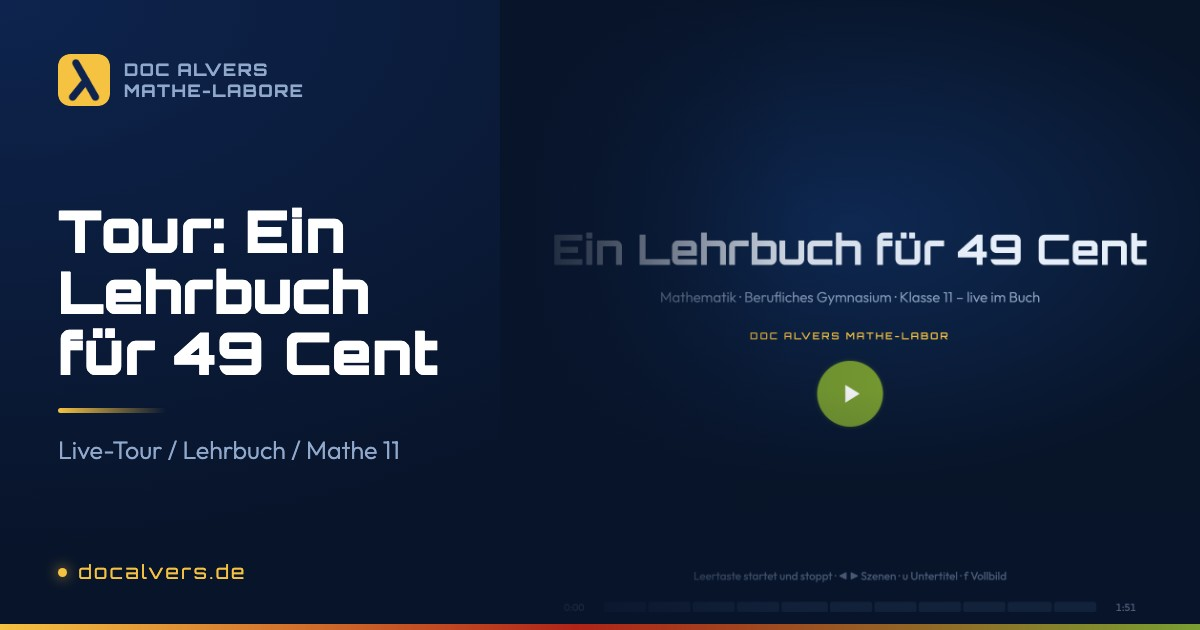
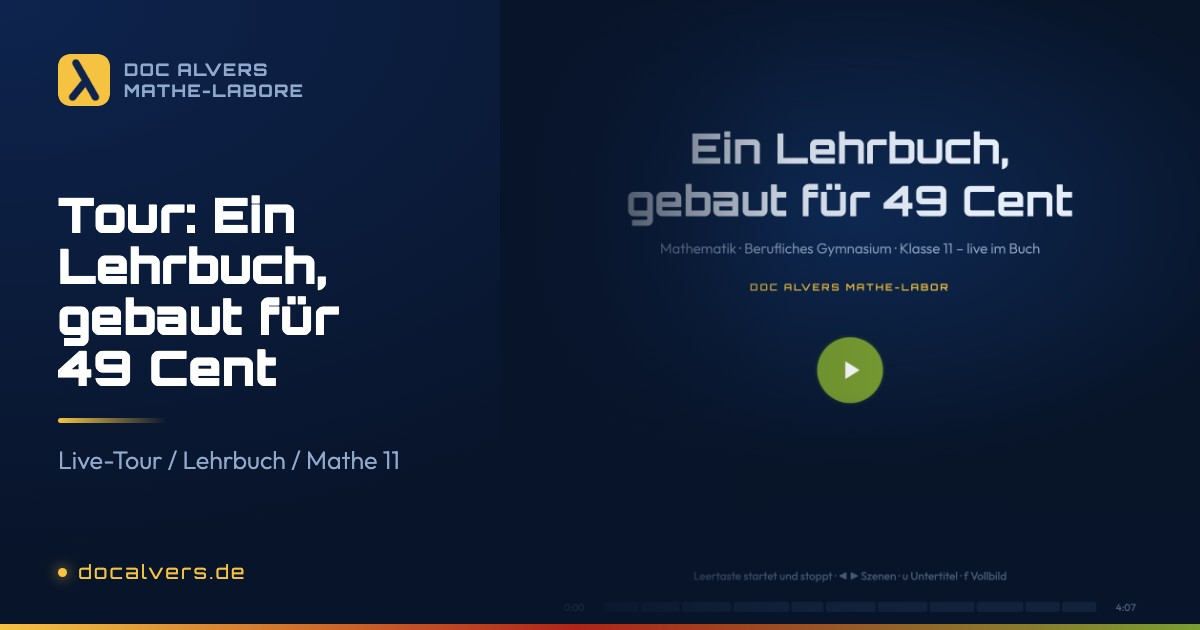
Making-of: the 0,49 € reads as what the book cost to build, not its price - "gebaut für" in all five languages and the tour
A reader took "Ein ganzes Lehrbuch für 0,49 €" for the sale price (the print book costs more). Now:
- the Making-of card on the book pages and in the hub: "Ein ganzes Lehrbuch, gebaut für 0,49 €" / "A whole textbook, built for €0.49" / "Un manuel entier, réalisé pour 0,49 €" / "Un libro de texto entero, creado con 0,49 €" / "Un intero libro di testo, realizzato con 0,49 €", the link's aria-label alike
- the tour "Ein Lehrbuch, gebaut für 49 Cent": its page, scene title, labs-config, search terms and the hub titles in all nine languages; her spoken line stays ("Entstanden in knapp anderthalb Stunden, für neunundvierzig Cent" already says it), link preview card shot anew
- the tour's title card in two lines (card.title may carry \n, cyber-tour.css pre-line; such a card lifts its block 9vh so the signature stays clear of the play button - checked 1600x900 to 390x844; all other tours unchanged)
- cards checked head-less in all five languages at 1280, 768 and 390 px: the price wraps whole, no sideways scroll

(Doc, 08.11.2026: "eine Kritik ..., dass die 0,49 € bei unserem Buch misleading sein könnten" - "Mach das bitte")

diff --git a/HTML/js/i18n-index-fr.js b/HTML/js/i18n-index-fr.js
@@ -169,7 +169,7 @@
                 "tour-vorrechnen": { title: "Visite : La classe dit où ça coince", description: "Visite guidée en direct de Vorrechnen (résoudre au tableau) : à gauche le tableau tel que la classe le voit, à droite Mission Control avec tout le reste, et un téléphone avec le buzzer. Du code QR au tableau à « pas compris » d'un simple toucher, au nombre derrière la ligne, à « trop vite » et aux commentaires, jusqu'à l'écriture manuscrite qui devient formule, Solita qui répond au tableau et la révision. On joue avec une classe de démonstration dans le navigateur, sans données réelles. 13 scènes, environ 6 minutes. Commentaire en allemand." },
                 "tour-maya": { title: "Visite : Point, barre, coquillage", description: "Visite guidée en direct de l'abaque maya, commentée par Doc Alvers (clone vocal par IA) avec curseur et sous-titres : les vingt chiffres faits de points, de barres et d'un coquillage, poser des chiffres, la retenue de 59 à 60, taper un nombre, des exercices aux dés, le compte du calendrier face à la base 20 pure et l'écriture verticale — pendant que le vrai labo tourne dans le navigateur. 12 scènes, environ 3 minutes ; pause et essais possibles à tout moment. Commentaire en allemand." },
                 "tour-trigonometrie": { title: "Visite : Du triangle à l'onde", description: "Visite guidée en direct du labo de trigonométrie : Solita guide avec la voix, le curseur et des sous-titres à travers les onze chapitres — du triangle rectangle au cercle trigonométrique et au radian, de la sinusoïde qui se déroule depuis le cercle aux équations, aux paramètres avec une énigme et à la durée du jour à Dresde, jusqu'à la tangente, la loi des sinus et la dérivée — pendant que le vrai labo tourne dans le navigateur. 12 scènes, environ 4 minutes et demie ; pause et essais possibles à tout moment. Commentaire en allemand." },
-                "tour-mathe11-lehrbuch": { title: "Visite : Un manuel pour 49 centimes", description: "Visite guidée en direct du manuel de mathématiques de 11e année du Gymnasium professionnel : Solita parcourt le vrai livre avec la voix, le curseur et des sous-titres — du sommaire, un chapitre, l’atelier des paraboles, l’indice et la solution, un auto-test et le plan incliné de Galilée jusqu’au labo des paraboles, aux cinq langues et à l’édition imprimée. Réalisé en moins d’une heure et demie, pour 49 centimes. 11 scènes, environ 4 min 30, pause et essai à tout moment. Commentaire en allemand." },
+                "tour-mathe11-lehrbuch": { title: "Visite : Un manuel réalisé pour 49 centimes", description: "Visite guidée en direct du manuel de mathématiques de 11e année du Gymnasium professionnel : Solita parcourt le vrai livre avec la voix, le curseur et des sous-titres — du sommaire, un chapitre, l’atelier des paraboles, l’indice et la solution, un auto-test et le plan incliné de Galilée jusqu’au labo des paraboles, aux cinq langues et à l’édition imprimée. Réalisé en moins d’une heure et demie, pour 49 centimes. 11 scènes, environ 4 min 30, pause et essai à tout moment. Commentaire en allemand." },
                 "costablanca": { title: "Les incontournables de la Costa Blanca", description: "Des excursions sur la Costa Blanca à cocher : 22 destinations documentées d’Altea à Valence, avec photos, conseils d’initiés et barre de progression — en quatre langues (DE/EN/ES/IT)." },
                 "bb84": { title: "BB84", description: "Échange quantique de clés selon Bennett et Brassard : Alice envoie des photons uniques, chacun dans l’une de deux bases — + avec les états — et |, ou × avec / et \\. Bob choisit sa base au hasard : même base signifie résultat sûr, base différente signifie pur hasard. Survoler une colonne explique précisément ce photon. Avec l’espionne Eve, le taux d’erreur dans la partie comparée publiquement monte à un quart — la probabilité de détection vaut 1 − (3/4)^m, et mille tirages d’un clic montrent qu’il en est bien ainsi. Avec en plus un mode pédagogique qui parcourt tous les cas une fois." },
                 "jacquard": { title: "Jacquard", description: "Un métier à tisser de 1805, en 3D — la première machine qui fabrique une image d'après un plan écrit. Une carte perforée commande chaque fil de chaîne séparément : là où il y a un trou, l'aiguille passe, le crochet reste en place et le couteau lève le fil ; là où il y a du carton, le fil reste en bas et la trame bleue le recouvre. Carte après carte, l'image sort de la machine. Le motif et la machine sont deux choses différentes : le même cercle devient plus rond avec plus de fils, et là où le dessin est plus fin que le tissu, le métier tisse un motif qui n'existe pas dans l'original." },

diff --git a/HTML/js/i18n-index-es.js b/HTML/js/i18n-index-es.js
@@ -169,7 +169,7 @@
                 "tour-vorrechnen": { title: "Recorrido: La clase dice dónde se atasca", description: "Recorrido en vivo por Vorrechnen (resolver en la pizarra): a la izquierda la pizarra tal como la ve la clase, a la derecha Mission Control con todo lo demás, y un móvil con el pulsador. Desde el código QR en la pizarra, pasando por «no lo he entendido» con un toque, el número detrás de la línea, «demasiado rápido» y los comentarios, hasta la escritura a mano real que se convierte en fórmula, Solita respondiendo en la pizarra y el repaso. Se usa una clase de demostración en el navegador, sin datos reales. 13 escenas, unos 6 minutos. Hablado en alemán." },
                 "tour-maya": { title: "Recorrido: Punto, raya, concha", description: "Recorrido en vivo por el tablero de cálculo maya, narrado por Doc Alvers (clon de voz con IA) con cursor y subtítulos: las veinte cifras hechas de punto, raya y concha, colocar cifras, el acarreo de 59 a 60, teclear un número, tareas con dados, la cuenta del calendario frente a la base 20 pura y la escritura vertical, mientras el laboratorio real funciona en el navegador. 12 escenas, unos 3 minutos; se puede pausar y probar en cualquier momento. Hablado en alemán." },
                 "tour-trigonometrie": { title: "Recorrido: Del triángulo a la onda", description: "Recorrido en vivo por el laboratorio de trigonometría: Solita guía con voz, cursor y subtítulos por los once capítulos, desde el triángulo rectángulo, pasando por la circunferencia unidad y el radián, la curva del seno que se desenrolla del círculo, ecuaciones, parámetros con un acertijo y la duración del día en Dresde, hasta la tangente, el teorema del seno y la derivada, mientras el laboratorio real funciona en el navegador. 12 escenas, unos 4 minutos y medio; se puede pausar y probar en cualquier momento. Hablado en alemán." },
-                "tour-mathe11-lehrbuch": { title: "Recorrido: Un libro de texto por 49 céntimos", description: "Recorrido en vivo por el libro de texto de Matemáticas para el 11.º curso del Gymnasium profesional: Solita guía por el libro real con voz, cursor y subtítulos — del índice, un capítulo, el taller de parábolas, pista y solución, una autoevaluación y el plano inclinado de Galileo al laboratorio de parábolas, los cinco idiomas y la edición impresa. Hecho en menos de hora y media, por 49 céntimos. 11 escenas, unos 4½ minutos, se puede pausar y probar en cualquier momento. Hablado en alemán." },
+                "tour-mathe11-lehrbuch": { title: "Recorrido: Un libro de texto creado con 49 céntimos", description: "Recorrido en vivo por el libro de texto de Matemáticas para el 11.º curso del Gymnasium profesional: Solita guía por el libro real con voz, cursor y subtítulos — del índice, un capítulo, el taller de parábolas, pista y solución, una autoevaluación y el plano inclinado de Galileo al laboratorio de parábolas, los cinco idiomas y la edición impresa. Hecho en menos de hora y media, por 49 céntimos. 11 escenas, unos 4½ minutos, se puede pausar y probar en cualquier momento. Hablado en alemán." },
                 "costablanca": { title: "Lo mejor de la Costa Blanca", description: "Excursiones por la Costa Blanca para ir tachando: 22 destinos documentados de Altea a Valencia con fotos, consejos de quien vive allí y barra de progreso — en cuatro idiomas (DE/EN/ES/IT)." },
                 "bb84": { title: "BB84", description: "Intercambio cuántico de claves según Bennett y Brassard: Alice envía fotones individuales, cada uno en una de dos bases — + con los estados — y |, o × con / y \\. Bob elige su base al azar: la misma base da un resultado seguro, otra base da puro azar. Al pasar por encima de una columna se explica justo ese fotón. Con la espía Eve la tasa de error en la parte comparada públicamente sube a un cuarto — la probabilidad de detección es 1 − (3/4)^m, y mil rondas con un botón muestran que es realmente así. Además, un modo de enseñanza que recorre todos los casos una vez." },
                 "jacquard": { title: "Jacquard", description: "Un telar de 1805, en 3D — la primera máquina que fabrica una imagen a partir de un plan escrito. Una tarjeta perforada controla cada hilo de urdimbre por separado: donde hay un agujero, la aguja pasa, el gancho se queda y la cuchilla levanta el hilo; donde hay cartón, el hilo baja y la trama azul lo cubre. Tarjeta a tarjeta, la imagen sale de la máquina. Motivo y máquina son dos cosas distintas: el mismo círculo sale más redondo con más hilos, y donde el dibujo es más fino que el tejido, el telar teje un patrón que no existe en el original." },

diff --git a/HTML/js/i18n-index-sw.js b/HTML/js/i18n-index-sw.js
@@ -169,7 +169,7 @@
                 "tour-vorrechnen": { title: "Ziara: Darasa linasema linapokwama", description: "Ziara ya moja kwa moja ya Vorrechnen (kutatua ubaoni): kushoto ubao kama darasa linavyouona, kulia Mission Control pamoja na kila kitu, na simu yenye kitufe. Kuanzia msimbo wa QR ubaoni, kupitia “sijaelewa” kwa mguso mmoja, nambari nyuma ya mstari, “haraka mno” na maoni, hadi mwandiko halisi wa mkono unaogeuka fomula, Solita akijibu ubaoni na marudio. Hutumiwa darasa la maonyesho kwenye kivinjari, bila data halisi. Matukio 13, takriban dakika 6. Inazungumzwa kwa Kijerumani." },
                 "tour-maya": { title: "Ziara: Nukta, mstari, kombe", description: "Ziara ya moja kwa moja katika ubao wa kuhesabu wa Maya, inayosimuliwa na Doc Alvers (sauti iliyoigwa kwa AI) kwa kielekezi na manukuu: tarakimu ishirini za nukta, mstari na kombe, kupanga tarakimu, kubeba kutoka 59 hadi 60, kuandika namba, mazoezi ya kete, hesabu ya kalenda dhidi ya msingi wa 20 halisi na uandishi wa wima — huku maabara halisi ikifanya kazi kwenye kivinjari. Matukio 12, takriban dakika 3; simamisha wakati wowote ujaribu mwenyewe. Inazungumzwa kwa Kijerumani." },
                 "tour-trigonometrie": { title: "Ziara: Kutoka pembetatu hadi wimbi", description: "Ziara ya moja kwa moja katika maabara ya trigonometria: Solita anaongoza kwa sauti, kielekezi na manukuu kupitia sura zote kumi na moja — kuanzia pembetatu mraba, duara la kitengo na radiani, mkunjo wa sine unaojitokeza kutoka kwenye duara, milinganyo, vigezo pamoja na fumbo na urefu wa mchana huko Dresden hadi tanjenti, kanuni ya sine na kinyambuo — huku maabara halisi ikifanya kazi kwenye kivinjari. Matukio 12, takriban dakika 4 na nusu; simamisha wakati wowote ujaribu mwenyewe. Inazungumzwa kwa Kijerumani." },
-                "tour-mathe11-lehrbuch": { title: "Ziara: Kitabu cha kiada kwa senti 49", description: "Ziara ya moja kwa moja katika kitabu cha kiada cha hisabati kwa darasa la 11 la Gymnasium ya ufundi: Solita anaongoza katika kitabu halisi kwa sauti, kielekezi na manukuu — kuanzia yaliyomo, sura moja, karakana ya parabola, kidokezo na suluhisho, jaribio binafsi na mteremko wa Galileo hadi maabara ya parabola, lugha tano na toleo la kuchapishwa. Kimetengenezwa chini ya saa moja na nusu, kwa senti 49. Matukio 11, takriban dakika 4½, unaweza kusimamisha na kujaribu wakati wowote. Inazungumzwa kwa Kijerumani." },
+                "tour-mathe11-lehrbuch": { title: "Ziara: Kitabu cha kiada kilichotengenezwa kwa senti 49", description: "Ziara ya moja kwa moja katika kitabu cha kiada cha hisabati kwa darasa la 11 la Gymnasium ya ufundi: Solita anaongoza katika kitabu halisi kwa sauti, kielekezi na manukuu — kuanzia yaliyomo, sura moja, karakana ya parabola, kidokezo na suluhisho, jaribio binafsi na mteremko wa Galileo hadi maabara ya parabola, lugha tano na toleo la kuchapishwa. Kimetengenezwa chini ya saa moja na nusu, kwa senti 49. Matukio 11, takriban dakika 4½, unaweza kusimamisha na kujaribu wakati wowote. Inazungumzwa kwa Kijerumani." },
                 "costablanca": { title: "Vivutio vya Costa Blanca", description: "Safari za Costa Blanca za kuweka alama: maeneo 22 yaliyochunguzwa kutoka Altea hadi Valencia yakiwa na picha, vidokezo vya wenyeji na upau wa maendeleo — kwa lugha nne (DE/EN/ES/IT)." },
                 "bb84": { title: "BB84", description: "Ubadilishanaji wa funguo kwa kanuni ya kwanta ya Bennett na Brassard: Alice hutuma fotoni moja moja, kila moja katika mojawapo ya besi mbili — + yenye hali — na |, au × yenye / na \\. Bob huchagua besi yake kwa nasibu: besi ile ile humaanisha jibu la uhakika, besi tofauti humaanisha bahati tupu. Kupitisha kishale juu ya safu hueleza fotoni hiyo hasa. Akiwepo msikilizaji Eve, kiwango cha makosa katika sehemu inayolinganishwa hadharani hupanda hadi robo — uwezekano wa kugunduliwa ni 1 − (3/4)^m, na mizunguko elfu kwa kubonyeza kitufe huonyesha kuwa ni kweli hivyo. Pamoja na hali ya kufundishia inayopitia kila kisa mara moja." },
                 "jacquard": { title: "Jacquard", description: "Mtambo wa kufuma wa mwaka 1805, katika 3D — mashine ya kwanza inayotengeneza picha kwa kufuata mpango ulioandikwa. Kadi yenye matundu huongoza kila uzi wa tando peke yake: palipo na tundu sindano hupenya, kulabu hubaki na kisu huinua uzi; palipo na karatasi uzi hubaki chini na uzi wa buluu wa upande humfunika. Kadi baada ya kadi picha hukua kutoka kwenye mashine. Muundo na mashine ni vitu viwili tofauti: duara lile lile huwa duara zaidi likiwa na nyuzi nyingi, na pale mchoro ulipo laini kuliko nguo, mtambo hufuma muundo usiokuwepo kabisa kwenye asili." },

diff --git a/HTML/js/i18n-index-it.js b/HTML/js/i18n-index-it.js
@@ -169,7 +169,7 @@
                 "tour-vorrechnen": { title: "Tour: La classe dice dove si blocca", description: "Tour dal vivo di Vorrechnen (risolvere alla lavagna): a sinistra la lavagna come la vede la classe, a destra Mission Control con tutto il resto, e un telefono con il pulsante. Dal codice QR alla lavagna al «non ho capito» con un tocco, al numero dietro la riga, a «troppo veloce» e ai commenti, fino alla scrittura a mano vera che diventa formula, a Solita che risponde alla lavagna e al ripasso. Si usa una classe dimostrativa nel browser, senza dati reali. 13 scene, circa 6 minuti. Parlato in tedesco." },
                 "tour-maya": { title: "Tour: Punto, barra, conchiglia", description: "Tour dal vivo nell'abaco maya, narrato da Doc Alvers (clone vocale IA) con cursore e sottotitoli: le venti cifre fatte di punti, barre e conchiglia, posare le cifre, il riporto da 59 a 60, digitare un numero, esercizi con i dadi, il conteggio del calendario contro la base 20 pura e la scrittura verticale — mentre il vero laboratorio gira nel browser. 12 scene, circa 3 minuti; si può fermare e provare in ogni momento. Parlato in tedesco." },
                 "tour-trigonometrie": { title: "Tour: Dal triangolo all'onda", description: "Tour dal vivo nel laboratorio di trigonometria: Solita guida con voce, cursore e sottotitoli attraverso tutti gli undici capitoli — dal triangolo rettangolo alla circonferenza goniometrica e al radiante, dalla sinusoide che si srotola dal cerchio alle equazioni, ai parametri con un indovinello e alla durata del giorno a Dresda, fino alla tangente, al teorema dei seni e alla derivata — mentre il vero laboratorio gira nel browser. 12 scene, circa 4 minuti e mezzo; si può fermare e provare in ogni momento. Parlato in tedesco." },
-                "tour-mathe11-lehrbuch": { title: "Tour: Un libro di testo per 49 centesimi", description: "Tour dal vivo del libro di matematica per l’11ª classe del Gymnasium professionale: Solita guida nel libro vero con voce, cursore e sottotitoli — dall’indice, un capitolo, l’officina delle parabole, suggerimento e soluzione, un autotest e il piano inclinato di Galileo fino al laboratorio delle parabole, alle cinque lingue e all’edizione stampata. Realizzato in meno di un’ora e mezza, per 49 centesimi. 11 scene, circa 4 minuti e mezzo, pausa e prova in qualsiasi momento. Parlato in tedesco." },
+                "tour-mathe11-lehrbuch": { title: "Tour: Un libro di testo realizzato con 49 centesimi", description: "Tour dal vivo del libro di matematica per l’11ª classe del Gymnasium professionale: Solita guida nel libro vero con voce, cursore e sottotitoli — dall’indice, un capitolo, l’officina delle parabole, suggerimento e soluzione, un autotest e il piano inclinato di Galileo fino al laboratorio delle parabole, alle cinque lingue e all’edizione stampata. Realizzato in meno di un’ora e mezza, per 49 centesimi. 11 scene, circa 4 minuti e mezzo, pausa e prova in qualsiasi momento. Parlato in tedesco." },
                 "costablanca": { title: "Il meglio della Costa Blanca", description: "Gite sulla Costa Blanca da spuntare: 22 mete documentate da Altea a Valencia con foto, consigli di chi ci vive e barra di avanzamento — in quattro lingue (DE/EN/ES/IT)." },
                 "bb84": { title: "BB84", description: "Scambio quantistico di chiavi secondo Bennett e Brassard: Alice invia singoli fotoni, ciascuno in una di due basi — + con gli stati — e |, oppure × con / e \\. Bob sceglie la sua base a caso: stessa base significa risultato sicuro, base diversa significa puro caso. Passando sopra una colonna si spiega proprio quel fotone. Con la spia Eve il tasso di errore nella parte confrontata pubblicamente sale a un quarto — la probabilità di scoperta è 1 − (3/4)^m, e mille prove con un clic mostrano che è davvero così. In più una modalità didattica che percorre una volta tutti i casi." },
                 "jacquard": { title: "Jacquard", description: "Un telaio del 1805, in 3D — la prima macchina che produce un'immagine seguendo un piano scritto. Una scheda perforata comanda ogni filo di ordito separatamente: dove c'è un foro l'ago passa, l'uncino resta fermo e il coltello solleva il filo; dove c'è cartone il filo resta in basso e la trama blu lo copre. Scheda dopo scheda l'immagine esce dalla macchina. Motivo e macchina sono due cose diverse: lo stesso cerchio viene più rotondo con più fili, e dove il disegno è più fine del tessuto il telaio tesse un motivo che nell'originale non esiste." },

diff --git a/HTML/js/i18n-index-nl.js b/HTML/js/i18n-index-nl.js
@@ -169,7 +169,7 @@
                 "tour-vorrechnen": { title: "Rondleiding: De klas zegt waar het hapert", description: "Live rondleiding door Vorrechnen (voorrekenen op het bord): links het bord zoals de klas het ziet, rechts Mission Control met alles erop en eraan, plus een telefoon met de buzzer. Van de QR-code op het bord via ‘niet begrepen’ met één tik, het getal achter de regel, ‘te snel’ en opmerkingen tot echt handschrift dat een formule wordt, Solita die aan het bord antwoordt en de herhaling. Er wordt gespeeld met een demoklas in de browser, zonder echte gegevens. 13 scènes, ongeveer 6 minuten. Gesproken in het Duits." },
                 "tour-maya": { title: "Rondleiding: Punt, streep, schelp", description: "Live rondleiding door het Maya-rekenbord, ingesproken door Doc Alvers (AI-stemkloon) met cursor en ondertitels: de twintig cijfers van punt, streep en schelp, cijfers leggen, de overdracht van 59 naar 60, een getal intypen, dobbelopgaven, de kalendertelling tegenover zuiver twintigtallig en de staande schrijfwijze — terwijl het echte lab live in de browser draait. 12 scènes, ongeveer 3 minuten; op elk moment pauzeren en zelf proberen. Gesproken in het Duits." },
                 "tour-trigonometrie": { title: "Rondleiding: Van driehoek tot golf", description: "Live rondleiding door het goniometrie-lab: Solita leidt je met stem, cursor en ondertitels door alle elf hoofdstukken — van de rechthoekige driehoek via de eenheidscirkel en de radiaal, de sinuskromme die uit de cirkel afrolt, vergelijkingen, parameters met een puzzel en de daglengte in Dresden tot de tangens, de sinusregel en de afgeleide — terwijl het echte lab live in de browser draait. 12 scènes, ongeveer 4,5 minuut; op elk moment pauzeren en zelf proberen. Gesproken in het Duits." },
-                "tour-mathe11-lehrbuch": { title: "Rondleiding: Een schoolboek voor 49 cent", description: "Live rondleiding door het wiskundeboek voor klas 11 van het beroepsgerichte Gymnasium: Solita leidt met stem, cursor en ondertitels door het echte boek — van de inhoud, een hoofdstuk, de parabool-werkplaats, tip en oplossing, een zelftest en Galileo’s hellend vlak tot het parabool-lab, de vijf talen en de gedrukte uitgave. Gemaakt in nog geen anderhalf uur, voor 49 cent. 11 scènes, ongeveer 4½ minuut, op elk moment pauzeren en zelf proberen. Gesproken in het Duits." },
+                "tour-mathe11-lehrbuch": { title: "Rondleiding: Een schoolboek gemaakt voor 49 cent", description: "Live rondleiding door het wiskundeboek voor klas 11 van het beroepsgerichte Gymnasium: Solita leidt met stem, cursor en ondertitels door het echte boek — van de inhoud, een hoofdstuk, de parabool-werkplaats, tip en oplossing, een zelftest en Galileo’s hellend vlak tot het parabool-lab, de vijf talen en de gedrukte uitgave. Gemaakt in nog geen anderhalf uur, voor 49 cent. 11 scènes, ongeveer 4½ minuut, op elk moment pauzeren en zelf proberen. Gesproken in het Duits." },
                 "costablanca": { title: "Hoogtepunten Costa Blanca", description: "Uitstapjes aan de Costa Blanca om af te vinken: 22 uitgezochte bestemmingen van Altea tot Valencia met foto’s, insidertips en voortgangsbalk — in vier talen (DE/EN/ES/IT)." },
                 "bb84": { title: "BB84", description: "Quantum-sleuteluitwisseling volgens Bennett en Brassard: Alice stuurt losse fotonen, elk in een van twee bases — + met de toestanden — en |, of × met / en \\. Bob kiest zijn basis willekeurig: dezelfde basis betekent een zeker resultaat, een andere basis betekent puur toeval. Ga je over een kolom, dan wordt precies dat foton uitgelegd. Met afluisteraarster Eve stijgt het foutpercentage in het publiek vergeleken deel tot een kwart — de ontdekkingskans is 1 − (3/4)^m, en duizend runs op één knop laten zien dat het echt zo is. Plus een lesmodus die alle gevallen één keer doorloopt." },
                 "jacquard": { title: "Jacquard", description: "Een weefgetouw uit 1805, in 3D — de eerste machine die een beeld maakt naar een opgeschreven plan. Eén ponskaart stuurt elke kettingdraad afzonderlijk: waar een gat zit glijdt de naald erdoor, de haak blijft staan en het mes tilt de draad op; waar karton zit blijft hij beneden en de blauwe inslag dekt hem af. Kaart na kaart groeit het beeld uit de machine. Motief en machine zijn twee verschillende dingen: dezelfde cirkel wordt ronder met meer kettingdraden, en waar de tekening fijner is dan het weefsel weeft het getouw een patroon dat in het origineel helemaal niet voorkomt." },

diff --git a/HTML/js/i18n-index-pt.js b/HTML/js/i18n-index-pt.js
@@ -169,7 +169,7 @@
                 "tour-vorrechnen": { title: "Visita: A turma diz onde encrava", description: "Visita guiada ao vivo pelo Vorrechnen (resolver no quadro): à esquerda o quadro como a turma o vê, à direita o Mission Control com tudo o resto, e um telemóvel com o botão. Do código QR no quadro ao «não percebi» com um toque, ao número atrás da linha, ao «demasiado rápido» e aos comentários, até à caligrafia real que se transforma em fórmula, à Solita a responder no quadro e à revisão. Usa-se uma turma de demonstração no navegador, sem dados reais. 13 cenas, cerca de 6 minutos. Falado em alemão." },
                 "tour-maya": { title: "Visita: Ponto, barra, concha", description: "Visita guiada ao vivo pelo ábaco maia, narrada por Doc Alvers (clone de voz por IA) com cursor e legendas: os vinte algarismos feitos de ponto, barra e concha, colocar algarismos, o transporte de 59 para 60, escrever um número, tarefas com dados, a contagem do calendário face à base 20 pura e a escrita vertical — enquanto o laboratório real corre no navegador. 12 cenas, cerca de 3 minutos; pode parar e experimentar a qualquer momento. Falado em alemão." },
                 "tour-trigonometrie": { title: "Visita: Do triângulo à onda", description: "Visita guiada ao vivo pelo laboratório de trigonometria: a Solita guia com voz, cursor e legendas pelos onze capítulos — do triângulo retângulo ao círculo trigonométrico e ao radiano, da curva do seno que se desenrola do círculo às equações, aos parâmetros com um enigma e à duração do dia em Dresden, até à tangente, à lei dos senos e à derivada — enquanto o laboratório real corre no navegador. 12 cenas, cerca de 4 minutos e meio; pode parar e experimentar a qualquer momento. Falado em alemão." },
-                "tour-mathe11-lehrbuch": { title: "Visita: Um manual por 49 cêntimos", description: "Visita guiada ao vivo ao manual de Matemática do 11.º ano do Gymnasium profissional: a Solita percorre o livro verdadeiro com voz, cursor e legendas — do índice, um capítulo, a oficina de parábolas, dica e solução, um autoteste e o plano inclinado de Galileu até ao laboratório de parábolas, às cinco línguas e à edição impressa. Feito em menos de hora e meia, por 49 cêntimos. 11 cenas, cerca de 4 minutos e meio, pode pausar e experimentar a qualquer momento. Falado em alemão." },
+                "tour-mathe11-lehrbuch": { title: "Visita: Um manual feito com 49 cêntimos", description: "Visita guiada ao vivo ao manual de Matemática do 11.º ano do Gymnasium profissional: a Solita percorre o livro verdadeiro com voz, cursor e legendas — do índice, um capítulo, a oficina de parábolas, dica e solução, um autoteste e o plano inclinado de Galileu até ao laboratório de parábolas, às cinco línguas e à edição impressa. Feito em menos de hora e meia, por 49 cêntimos. 11 cenas, cerca de 4 minutos e meio, pode pausar e experimentar a qualquer momento. Falado em alemão." },
                 "costablanca": { title: "Destaques da Costa Blanca", description: "Passeios pela Costa Blanca para ir riscando: 22 destinos pesquisados de Altea a Valência com fotos, dicas de quem lá vive e barra de progresso — em quatro línguas (DE/EN/ES/IT)." },
                 "bb84": { title: "BB84", description: "Troca quântica de chaves segundo Bennett e Brassard: a Alice envia fotões individuais, cada um numa de duas bases — + com os estados — e |, ou × com / e \\. O Bob escolhe a sua base ao acaso: a mesma base dá um resultado seguro, outra base dá puro acaso. Passar sobre uma coluna explica exatamente esse fotão. Com a espia Eve a taxa de erro na parte comparada publicamente sobe para um quarto — a probabilidade de deteção é 1 − (3/4)^m, e mil execuções à distância de um botão mostram que é mesmo assim. E ainda um modo de ensino que percorre todos os casos uma vez." },
                 "jacquard": { title: "Jacquard", description: "Um tear de 1805, em 3D — a primeira máquina que produz uma imagem a partir de um plano escrito. Um cartão perfurado comanda cada fio de urdidura separadamente: onde há um furo, a agulha passa, o gancho fica parado e a faca levanta o fio; onde há cartão, o fio fica em baixo e a trama azul cobre-o. Cartão a cartão, a imagem sai da máquina. Motivo e máquina são coisas diferentes: o mesmo círculo sai mais redondo com mais fios, e onde o desenho é mais fino do que o tecido, o tear tece um padrão que não existe no original." },

diff --git a/HTML/js/i18n-index-tr.js b/HTML/js/i18n-index-tr.js
@@ -169,7 +169,7 @@
                 "tour-vorrechnen": { title: "Tur: Sınıf nerede takıldığını söylüyor", description: "Vorrechnen’de canlı tur (tahtada çözüm): solda sınıfın gördüğü tahta, sağda her şeyiyle Mission Control, bir de butonlu bir telefon. Tahtadaki QR koddan tek dokunuşla “anlamadım”a, satırın arkasındaki sayıya, “çok hızlı” ve yorumlara, formüle dönüşen gerçek el yazısına, tahtada yanıt veren Solita’ya ve tekrara kadar. Tarayıcıda gerçek veri olmadan bir gösteri sınıfıyla oynanır. 13 sahne, yaklaşık 6 dakika. Anlatım Almancadır." },
                 "tour-maya": { title: "Tur: Nokta, çizgi, deniz kabuğu", description: "Maya hesap tahtasında canlı tur, Doc Alvers’ın sesiyle (yapay zekâ ses klonu), imleç ve altyazılarla: nokta, çizgi ve deniz kabuğundan yirmi rakam, rakam yerleştirme, 59’dan 60’a elde, sayı yazma, zar görevleri, takvim sayımı ile saf 20 tabanı ve dikey yazım — bu sırada gerçek laboratuvar tarayıcıda canlı çalışır. 12 sahne, yaklaşık 3 dakika; istediğin an durdurup kendin deneyebilirsin. Anlatım Almancadır." },
                 "tour-trigonometrie": { title: "Tur: Üçgenden dalgaya", description: "Trigonometri laboratuvarında canlı tur: Solita ses, imleç ve altyazılarla on bir bölümün hepsinde yol gösterir — dik üçgenden birim çembere ve radyana, çemberden açılan sinüs eğrisinden denklemlere, bir bilmeceli parametrelere ve Dresden’deki gün uzunluğuna, oradan tanjanta, sinüs teoremine ve türeve kadar — bu sırada gerçek laboratuvar tarayıcıda canlı çalışır. 12 sahne, yaklaşık 4,5 dakika; istediğin an durdurup kendin deneyebilirsin. Anlatım Almancadır." },
-                "tour-mathe11-lehrbuch": { title: "Tur: 49 sentlik bir ders kitabı", description: "Mesleki Gymnasium’un 11. sınıfı için matematik ders kitabında canlı tur: Solita gerçek kitapta ses, imleç ve altyazılarla rehberlik ediyor — içindekilerden, bir bölümden, parabol atölyesinden, ipucu ve çözümden, bir öz testten ve Galileo’nun eğik düzleminden parabol laboratuvarına, beş dile ve basılı baskıya kadar. Bir buçuk saatten kısa sürede, 49 sente yapıldı. 11 sahne, yaklaşık 4,5 dakika, istediğiniz an durdurup kendiniz deneyebilirsiniz. Anlatım Almancadır." },
+                "tour-mathe11-lehrbuch": { title: "Tur: 49 sente üretilen bir ders kitabı", description: "Mesleki Gymnasium’un 11. sınıfı için matematik ders kitabında canlı tur: Solita gerçek kitapta ses, imleç ve altyazılarla rehberlik ediyor — içindekilerden, bir bölümden, parabol atölyesinden, ipucu ve çözümden, bir öz testten ve Galileo’nun eğik düzleminden parabol laboratuvarına, beş dile ve basılı baskıya kadar. Bir buçuk saatten kısa sürede, 49 sente yapıldı. 11 sahne, yaklaşık 4,5 dakika, istediğiniz an durdurup kendiniz deneyebilirsiniz. Anlatım Almancadır." },
                 "costablanca": { title: "Costa Blanca’nın öne çıkanları", description: "İşaretlenecek Costa Blanca gezileri: Altea’dan Valencia’ya 22 araştırılmış rota; fotoğraflar, yerel ipuçları ve ilerleme çubuğu ile — dört dilde (DE/EN/ES/IT)." },
                 "bb84": { title: "BB84", description: "Bennett ve Brassard’a göre kuantum anahtar değişimi: Alice tek tek fotonlar gönderir, her biri iki tabandan birinde — + tabanında — ve | durumlarıyla, ya da × tabanında / ve \\ ile. Bob tabanını rastgele seçer: aynı taban güvenilir sonuç, farklı taban saf rastlantı demektir. Bir sütunun üzerine gelmek tam o fotonu açıklar. Dinleyici Eve varken açıkça karşılaştırılan kısımdaki hata oranı dörtte bire çıkar — yakalanma olasılığı 1 − (3/4)^m’dir ve tek tuşla bin deneme bunun gerçekten böyle olduğunu gösterir. Ayrıca bütün durumları bir kez gezen bir öğretim modu." },
                 "jacquard": { title: "Jacquard", description: "1805'ten kalma bir dokuma tezgâhı, 3B olarak — yazılı bir plana göre resim üreten ilk makine. Delikli bir kart her çözgü ipliğini tek tek yönetir: delik olan yerde iğne geçer, kanca yerinde kalır ve bıçak ipliği kaldırır; karton olan yerde iplik aşağıda kalır ve mavi atkı onu örter. Kart kart resim makineden çıkar. Desen ile makine iki ayrı şeydir: aynı daire daha çok iplikle daha yuvarlak çıkar, çizim kumaştan daha ince olduğunda ise tezgâh, aslında hiç bulunmayan bir deseni dokur." },

diff --git a/HTML/js/i18n-index-en.js b/HTML/js/i18n-index-en.js
@@ -169,7 +169,7 @@
                 "tour-vorrechnen": { title: "Tour: The Class Says Where It's Stuck", description: "Live tour of Vorrechnen (working problems at the board): on the left the board as the class sees it, on the right Mission Control with everything around it, plus a phone with the buzzer. From the QR code on the board via “not understood” at a tap, the count behind the line, “too fast” and comments to real handwriting that turns into a formula, Solita answering at the board, and the review list. It plays with a demo class in the browser, without any real data. 13 scenes, about 6 minutes. Spoken in German." },
                 "tour-maya": { title: "Tour: Dot, Bar, Shell", description: "Live tour of the Maya counting board, narrated by Doc Alvers (AI voice clone) with cursor and subtitles: the twenty digits made of dot, bar and shell, laying digits, the carry from 59 to 60, typing a number, dice tasks, calendar count versus pure base 20 and the upright notation — while the real lab runs live in your browser. 12 scenes, about 3 minutes, pause anytime and try it yourself. Spoken in German." },
                 "tour-trigonometrie": { title: "Tour: From Triangle to Wave", description: "Live tour of the Trigonometry lab: Solita guides you with voice, cursor and subtitles through all eleven chapters — from the right triangle via the unit circle and radians, the sine curve rolling out of the circle, equations, parameters with a puzzle and the day length in Dresden to the tangent, the law of sines and the derivative — while the real lab runs live in your browser. 12 scenes, about 4½ minutes, pause anytime and try it yourself. Spoken in German." },
-                "tour-mathe11-lehrbuch": { title: "Tour: A Textbook for 49 Cents", description: "Live tour of the maths textbook for grade 11 at the vocational Gymnasium: Solita guides you through the real book with voice, cursor and subtitles — from the contents, a chapter, the parabola workshop, tip and solution, a self-test and Galileo’s inclined plane to the parabola lab, the five languages and the print edition. Made in under an hour and a half, for 49 cents. 11 scenes, about 4½ minutes, pause at any time and try it yourself. Spoken in German." },
+                "tour-mathe11-lehrbuch": { title: "Tour: A Textbook Built for 49 Cents", description: "Live tour of the maths textbook for grade 11 at the vocational Gymnasium: Solita guides you through the real book with voice, cursor and subtitles — from the contents, a chapter, the parabola workshop, tip and solution, a self-test and Galileo’s inclined plane to the parabola lab, the five languages and the print edition. Made in under an hour and a half, for 49 cents. 11 scenes, about 4½ minutes, pause at any time and try it yourself. Spoken in German." },
                 "costablanca": { title: "Costa Blanca Highlights", description: "Costa Blanca outings to tick off: 22 researched destinations from Altea to Valencia with photos, insider tips and a progress bar — in four languages (DE/EN/ES/IT)." },
                 "bb84": { title: "BB84", description: "Quantum key exchange after Bennett and Brassard: Alice sends single photons, each in one of two bases — + with the states — and |, or × with / and \\. Bob picks his basis at random: the same basis means a reliable result, a different basis means pure chance. Hovering over a column explains exactly that photon. With the eavesdropper Eve the error rate in the publicly compared part rises to a quarter — the probability of detection is 1 − (3/4)^m, and a thousand runs at the push of a button show that it really is so. Plus a teaching mode that walks through every case once." },
                 "jacquard": { title: "Jacquard", description: "A loom from 1805, in 3D — the first machine that makes a picture from a written plan. One punched card controls every warp thread on its own: where there is a hole the needle slips through, the hook stays put and the knife lifts the thread; where there is card, it stays down and the blue weft covers it. Card by card the picture grows out of the machine. Design and machine are two different things: the same circle comes out rounder with more warp threads, and where the drawing is finer than the cloth, the loom weaves a pattern that is not in the original at all." },

diff --git a/HTML/js/i18n-index-de.js b/HTML/js/i18n-index-de.js
@@ -170,7 +170,7 @@
                 "tour-vorrechnen": { title: "Tour: Die Klasse sagt, wo es hakt", description: "Live-Tour durch Vorrechnen: links die Tafel, wie die Klasse sie vorne sieht, rechts Mission Control mit allem drum und dran, dazu ein Fon mit dem Buzzer. Vom QR-Code an der Tafel über „nicht verstanden“ per Tipp, die Zahl hinter der Zeile, „zu schnell“ und Kommentare bis zur echten Handschrift, die zur Formel wird, Solita, die an der Tafel antwortet, und der Wiederholung. Gespielt wird mit einer Vorführ-Klasse im Browser, ganz ohne echte Daten. 13 Szenen, etwa 6 Minuten." },
                 "tour-maya": { title: "Tour: Punkt, Strich, Muschel", description: "Live-Tour durch das Maya-Rechenbrett, gesprochen von Doc Alvers (KI-Stimmklon), mit Cursor und Untertiteln: die zwanzig Ziffern aus Punkt, Strich und Muschel, Ziffern legen, der Übertrag von 59 auf 60, eine Zahl eintippen, Würfelaufgaben, Kalender oder reine Zwanzig und die Schreibweise hochkant. Das echte Lab läuft dabei live im Browser. 12 Szenen, etwa 3 Minuten, jederzeit anhalten und selbst ausprobieren." },
                 "tour-trigonometrie": { title: "Tour: Vom Dreieck zur Welle", description: "Live-Tour durch das Trigonometrie-Lab: Solita führt mit Stimme, Cursor und Untertiteln durch alle elf Kapitel — vom rechtwinkligen Dreieck über Einheitskreis und Bogenmaß, die Sinuskurve, die aus dem Kreis abrollt, Gleichungen, Parameter mit Rätsel und die Tageslänge in Dresden bis zu Tangens, Sinussatz und Ableitung. Das echte Lab läuft dabei live im Browser. 12 Szenen, etwa 4½ Minuten, jederzeit anhalten und selbst ausprobieren." },
-                "tour-mathe11-lehrbuch": { title: "Tour: Ein Lehrbuch für 49 Cent", description: "Live-Tour durch das Lehrbuch Mathematik für Klasse 11 am Beruflichen Gymnasium: Solita führt mit Stimme, Cursor und Untertiteln durch das echte Buch, vom Inhalt über ein Kapitel, die Parabel-Werkstatt, Tipp und Lösung, einen Selbsttest und Galileis Fallrinne bis zum Parabellabor, den fünf Sprachen und der Druckausgabe. Entstanden in knapp anderthalb Stunden, für 49 Cent. 11 Szenen, etwa 4½ Minuten, jederzeit anhalten und selbst ausprobieren." },
+                "tour-mathe11-lehrbuch": { title: "Tour: Ein Lehrbuch, gebaut für 49 Cent", description: "Live-Tour durch das Lehrbuch Mathematik für Klasse 11 am Beruflichen Gymnasium: Solita führt mit Stimme, Cursor und Untertiteln durch das echte Buch, vom Inhalt über ein Kapitel, die Parabel-Werkstatt, Tipp und Lösung, einen Selbsttest und Galileis Fallrinne bis zum Parabellabor, den fünf Sprachen und der Druckausgabe. Entstanden in knapp anderthalb Stunden, für 49 Cent. 11 Szenen, etwa 4½ Minuten, jederzeit anhalten und selbst ausprobieren." },
                 "costablanca": { title: "Highlights Costa Blanca", description: "Costa-Blanca-Ausflüge zum Abhaken: 22 recherchierte Ziele von Altea bis Valencia mit Fotos, Insider-Tipps und Fortschrittsbalken — in vier Sprachen (DE/EN/ES/IT)." },
                 "bb84": { title: "BB84", description: "Quantenschlüsselaustausch nach Bennett und Brassard: Alice schickt einzelne Photonen, jedes in einer von zwei Basen — + mit den Zuständen — und |, oder × mit / und \\. Bob wählt seine Basis zufällig: gleiche Basis heißt sicheres Ergebnis, andere Basis heißt reiner Zufall. Über jede Spalte fahren erklärt genau dieses Photon. Mit der Lauscherin Eve steigt die Fehlerquote im öffentlich verglichenen Teil auf ein Viertel — die Entdeckungswahrscheinlichkeit ist 1 − (3/4)^m, und tausend Läufe auf Knopfdruck zeigen, dass es wirklich so ist. Dazu ein Lehrmodus, der alle Fälle einmal durchgeht." },
                 "jacquard": { title: "Jacquard", description: "Ein Webstuhl von 1805, in 3D — und die erste Maschine, die ein Bild nach einer Vorlage herstellt. Eine Lochkarte steuert jeden Kettfaden einzeln: Wo ein Loch ist, rutscht die Nadel hindurch, der Haken bleibt stehen und das Messer hebt den Faden; wo Papier ist, bleibt er unten und der blaue Schuss deckt ihn ab. Karte für Karte wächst das Bild aus der Maschine. Motiv und Maschine sind dabei zwei verschiedene Dinge: derselbe Kreis wird mit mehr Kettfäden runder, und wo die Zeichnung feiner ist als das Gewebe, webt der Webstuhl ein Muster, das es in der Vorlage gar nicht gibt." },

diff --git a/HTML/tours/mathe11-lehrbuch.html b/HTML/tours/mathe11-lehrbuch.html
@@ -1,5 +1,5 @@
 <!doctype html>
-<!-- Live tour "Ein Lehrbuch für 49 Cent": Solita walks through the book Mathematik, Berufliches Gymnasium 11 - pause with
+<!-- Live tour "Ein Lehrbuch, gebaut für 49 Cent": Solita walks through the book Mathematik, Berufliches Gymnasium 11 - pause with
      space, comment with Enter (js/cyber-tour.js). One pane: the book at 1360 px, zoomed to this window (its sidebar is
      part of the story); a data-device frame, so the book keeps its storage to itself. Needs its server for the review:
          python3 tools/tourkritik.py mathe11-lehrbuch 8773   ->   http://127.0.0.1:8773/tours/mathe11-lehrbuch.html?critics
@@ -8,22 +8,22 @@
 <head>
     <meta charset="utf-8">
     <meta name="viewport" content="width=device-width, initial-scale=1">
-    <title>Ein Lehrbuch für 49 Cent — Live-Tour</title>
+    <title>Ein Lehrbuch, gebaut für 49 Cent — Live-Tour</title>
     <!-- OG:BEGIN — generated by tools/og-preview/make-og.mjs, do not edit by hand -->
     <meta name="description" content="Live-Tour durch das Lehrbuch Mathematik für Klasse 11 am Beruflichen Gymnasium: Solita führt mit Stimme, Cursor und Untertiteln durch das echte Buch, vom Inhalt über ein Kapitel, die…">
     <meta property="og:type" content="website">
     <meta property="og:site_name" content="Doc Alvers Mathe-Labore">
     <meta property="og:locale" content="de_DE">
-    <meta property="og:title" content="Tour: Ein Lehrbuch für 49 Cent — Doc Alvers Mathe-Labore">
+    <meta property="og:title" content="Tour: Ein Lehrbuch, gebaut für 49 Cent — Doc Alvers Mathe-Labore">
     <meta property="og:description" content="Live-Tour durch das Lehrbuch Mathematik für Klasse 11 am Beruflichen Gymnasium: Solita führt mit Stimme, Cursor und Untertiteln durch das echte Buch, vom Inhalt über ein Kapitel, die…">
     <meta property="og:url" content="https://docalvers.de/tours/mathe11-lehrbuch.html">
     <meta property="og:image" content="https://docalvers.de/resources/og/tour-mathe11-lehrbuch.jpg">
     <meta property="og:image:type" content="image/jpeg">
     <meta property="og:image:width" content="1200">
     <meta property="og:image:height" content="630">
-    <meta property="og:image:alt" content="Tour: Ein Lehrbuch für 49 Cent — Vorschaubild des Labors">
+    <meta property="og:image:alt" content="Tour: Ein Lehrbuch, gebaut für 49 Cent — Vorschaubild des Labors">
     <meta name="twitter:card" content="summary_large_image">
-    <meta name="twitter:title" content="Tour: Ein Lehrbuch für 49 Cent — Doc Alvers Mathe-Labore">
+    <meta name="twitter:title" content="Tour: Ein Lehrbuch, gebaut für 49 Cent — Doc Alvers Mathe-Labore">
     <meta name="twitter:description" content="Live-Tour durch das Lehrbuch Mathematik für Klasse 11 am Beruflichen Gymnasium: Solita führt mit Stimme, Cursor und Untertiteln durch das echte Buch, vom Inhalt über ein Kapitel, die…">
     <meta name="twitter:image" content="https://docalvers.de/resources/og/tour-mathe11-lehrbuch.jpg">
     <!-- OG:END -->

diff --git a/HTML/tours/mathe11-lehrbuch.js b/HTML/tours/mathe11-lehrbuch.js
@@ -1,4 +1,4 @@
-/* Ein Lehrbuch für 49 Cent — the live tour through the book Mathematik, Berufliches Gymnasium 11 (HTML/buch/mathe11/).
+/* Ein Lehrbuch, gebaut für 49 Cent — the live tour through the book Mathematik, Berufliches Gymnasium 11 (HTML/buch/mathe11/).
  *
  * Doc, 03.11.2026: the deck decks/mathe11-lehrbuch.html tells how the book was made; the tour shows the book itself, the
  * way the Würfelspiel tour shows its lab ("So möchte ich das gerne haben"). Scene plan approved by Doc ("passt gut!"):
@@ -116,9 +116,10 @@
 
     CyberTour.define({
         id: 'mathe11-lehrbuch',
-        title: 'Ein Lehrbuch für 49 Cent',
+        title: 'Ein Lehrbuch, gebaut für 49 Cent',
         chapter: 'Teil',
-        card: { title: 'Ein Lehrbuch für 49 Cent', sub: 'Mathematik · Berufliches Gymnasium · Klasse 11 – live im Buch' },
+        /* the card title in two lines: in one it was wider than the link preview's picture (Doc, 08.11.2026: "gebaut") */
+        card: { title: 'Ein Lehrbuch,\ngebaut für 49 Cent', sub: 'Mathematik · Berufliches Gymnasium · Klasse 11 – live im Buch' },
         /* the address as Solita says it, written back for the subtitles (the longer one first) */
         spelled: {
             'Dock Alvers Punkt D E, Schrägstrich Buch, Schrägstrich Mathe elf': 'docalvers.de/buch/mathe11',
@@ -135,10 +136,10 @@
 
         scenes: [
             {
-                id: 's0', n: '00', title: 'Ein Lehrbuch für 49 Cent',
+                id: 's0', n: '00', title: 'Ein Lehrbuch, gebaut für 49 Cent',
                 async enter(t) { await open(t, BOOK + 'index.html', '#start'); },
                 async run(t) {
-                    begin(t, '00', 'Ein Lehrbuch für 49 Cent');
+                    begin(t, '00', 'Ein Lehrbuch, gebaut für 49 Cent');
                     await pointOn(t, L(t, 0) + 1.4, '.b-titel-art');            /* "Ein ganzes Lehrbuch Mathematik" */
                     await pointOn(t, L(t, 3) + 0.4, '.b-kino');                 /* "für neunundvierzig Cent" */
                     await pointOn(t, L(t, 5) + 0.6, '.b-kino');                 /* "erzählt die Präsentation hier oben" */

diff --git a/HTML/js/labs-terms.js b/HTML/js/labs-terms.js
@@ -112,7 +112,7 @@ const LABS_TERMS = {
     "stimmklon": ["alle Texte zeigen", "Aussteuerung automatisch", "Diff", "heller Grund", "Klon", "Mikrofon", "Original", "Original — Doc am RØDE", "Recording", "Spektrum", "Systemvorgabe"],
     "subtraktion": ["Minuend", "SCHRIFTLICHE SUBTRAKTION", "Subtrahend"],
     "tour-kreisteilung": ["Abspielen", "Die Formel", "Jedes Mal das Doppelte", "Kreisteilung", "Nummern", "Regelmäßig oder allgemein", "Und dann 31", "Was kommt dann?", "Was man sieht", "Zwei Punkte, eine Sehne"],
-    "tour-mathe11-lehrbuch": ["Aufgaben", "Die Druckausgabe", "Ein Kapitel", "Ein Lehrbuch für 49 Cent", "Elf Kapitel", "Exkursion", "Fünf Sprachen", "Für euch", "Labore", "Selbsttests", "Widgets"],
+    "tour-mathe11-lehrbuch": ["Aufgaben", "Die Druckausgabe", "Ein Kapitel", "Ein Lehrbuch, gebaut für 49 Cent", "Elf Kapitel", "Exkursion", "Fünf Sprachen", "Für euch", "Labore", "Selbsttests", "Widgets"],
     "tour-maya": ["Der Pfeil", "Die zwanzig Ziffern", "Die Zwanziger-Stelle", "Ein leeres Brett", "Eine Zahl eintippen", "Eine Ziffer legen", "Farben", "Hochkant", "Kalender oder rein zwanzig", "Maya-Zahlen", "Übertrag", "Wie viele Stellen", "Würfeln und legen"],
     "tour-mission-control": ["Abgabe", "Der rote Knopf", "Die ganze Klasse im Blick", "Die Klasse als Ganzes", "Die Klasse legt los", "Die Zettel", "Frage für Frage", "Kein Name auf dem Server", "Kurz mal weg", "Offline", "QR scannen"],
     "tour-trigonometrie": ["Das Bogenmaß", "Das rechtwinklige Dreieck", "Der Einheitskreis", "Der Tangens", "Die Ableitung", "Die Kosinuskurve", "Die Sinuskurve", "Gleichungen", "Tageslänge in Dresden", "Trigonometrie", "Vier Parameter", "Vom Dreieck zur Welle", "Zwei Dreiecke"],
